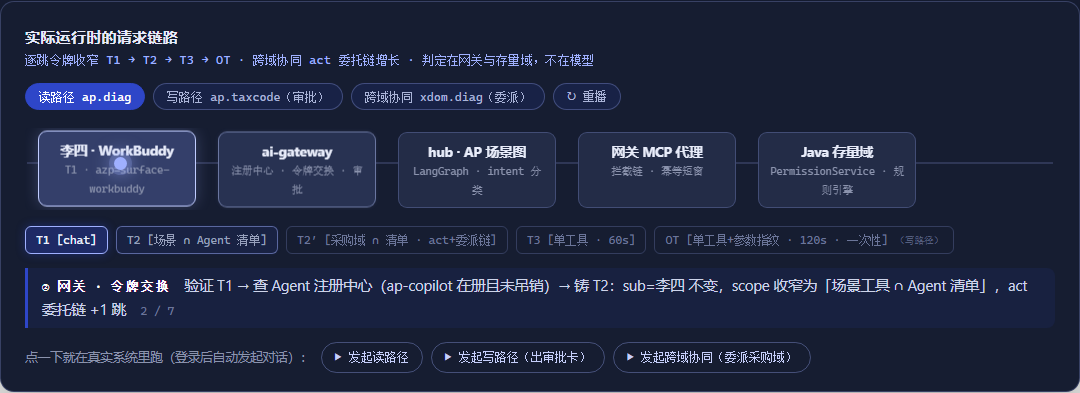
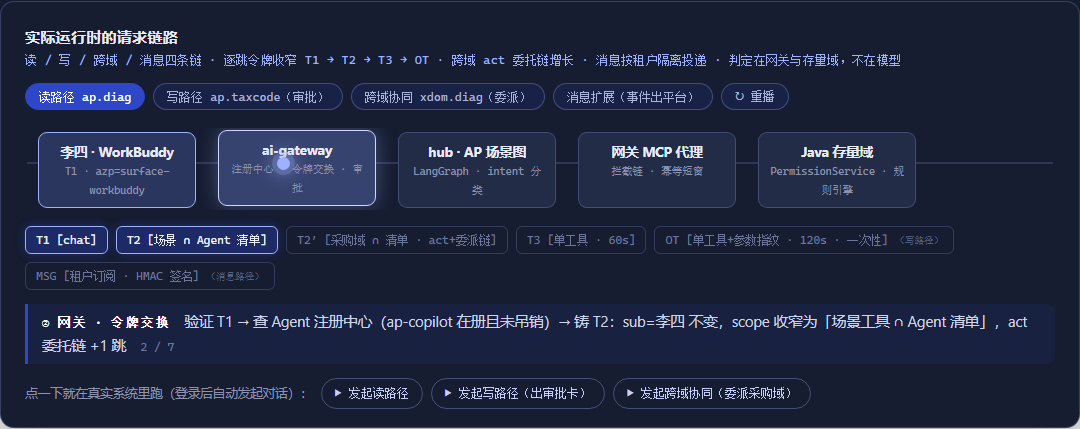
docs: 九幕文档 + intro 全面升级（14 条判断显性化 + 四模式链路动画）
- intro.html 新增「02 · 十四条架构判断」章节：14 行对照表（判断 × 机制落点
  × 验证入口 × 状态）+ 三个张力点（内生vs旁挂 / Ontology 方向性 / 替换终局
  对冲）+ 两条升格（可验证性一等公民 / 口径互证）——14 个问题在页面上显性化
- 顶部链路动画升级为四模式：读 / 写（审批）/ 跨域协同（委派）/ 消息扩展
  （事件出平台），新增租户系统·webhook 节点（msg 模式专属）与 MSG 令牌
  徽章，6 步消息脚本（outbox → 形态④消费 → 网关扇出 → 租户隔离匹配 →
  HMAC 投递 → 留痕与生命周期）
- 修复动画定时器泄漏（原代码 bug）：schedule() 的循环重启定时器此前在
  每个步进 tick 无条件重挂且不清旧的，多个泄漏定时器把 idx 反复归零，
  表现为动画莫名跳回第①步；现改为仅最后一步挂且挂前必清，start() 切
  模式时双定时器全清
- 架构图网关节点补消息分发；新增 Message 扩展卡片；页头徽章（五种形态
  / 14 条判断对照）；九幕表 + scene_9 行；章节重编号（02 判断 / 03 架构
  / 04 九幕 / 05 使用 / 06 目录）
- demo-script 第九幕讲解词与断言要点（38 分钟节奏）；README/architecture-
  mapping（ch04 补消息订阅）/architecture-alignment（观点 14 → ✅，
  13/14 已验证，P2 补齐记录）；验证报告刷新（全部体系绿）

diff --git a/docs/architecture-alignment.md b/docs/architecture-alignment.md
@@ -41,7 +41,7 @@
 | 11 | 人：执行者→确认者→例外处理者→监督者 | ✅ 一致且产品化 | 确认者=审批台（三要素+快照+params_hash）、例外处理者=挂起/唤醒、监督者=解析查看器+审计五要素+四问自检+成本对账 |
 | 12 | Agent 先协同、终局替换部分传统执行 | ✅ 当前阶段一致 | 现处「协同」阶段；管控面的执行端无关性是为终局预留的对冲（见张力 C） |
 | 13 | 标品 core + Metadata/Ontology/配置适配 | ✅ 一致（**P0 已补齐行业维度**） | 租户叠加（阈值/术语/指标口径/护栏）+ 行业包（Partner 层：制造业术语/护栏/行业默认参数，按行业声明匹配不串扰）；配置仍为文件级（无配置界面） |
-| 14 | SaaS 标品层/租户层隔离，API/Message 扩展 | 🟡 API✓ Message✗ | 跨租隔离 5/5、成本双租对账、三层解析隔离 ✓；Message 扩展通道未体现 |
+| 14 | SaaS 标品层/租户层隔离，API/Message 扩展 | ✅ 一致（**P2 已补齐 Message 半边**） | 跨租隔离 5/5、成本双租对账、三层解析隔离；BO API 扩展（规格即工具）+ 消息订阅（topic×webhook×HMAC 按租户隔离投递，吊销即停，scene_9） |
 
 ## 二、三个张力点（需要理念层面表态的地方）
 
@@ -89,18 +89,18 @@
 1. ~~Partner（行业）层~~ —— 解析顺序槽位已填充并演示；
 2. ~~Scheduler 触发~~ —— 形态⑤落地；
 3. ~~多领域 Agent + 协同~~ —— 采购域切片 + 跨域委派（AP 委派采购域）落地，
-   含协作清单治理与 act 委托链贯穿（scene_8）。
+   含协作清单治理与 act 委托链贯穿（scene_8）；
+4. ~~Message 扩展通道~~ —— 租户消息订阅（topic×webhook×HMAC）按租户隔离
+   投递出平台，吊销即停（scene_9）。
 
 **余项**：
-1. **Message 扩展通道**（观点 14 后半）：outbox 是内部事件；租户级「通过 Message 扩展」
-   （订阅 webhook / 消息总线挂自定义处理器）没有。
-2. **多异构系统对接**（文章选型第四条）：MCP 代理只指向一套 Java。哪怕再挂一个只读 OA/CRM
+1. **多异构系统对接**（文章选型第四条）：MCP 代理只指向一套 Java。哪怕再挂一个只读 OA/CRM
    工具，即可演示「底座不绑定单一 ERP」。
-3. **元数据→本体自动喂养**（观点 5 的自动化方向）：投影段是手工映射；无 schema introspection
+2. **元数据→本体自动喂养**（观点 5 的自动化方向）：投影段是手工映射；无 schema introspection
    自动生成。现状 = 人工对齐 + 机器校验，不是自动生成。
-4. **产品化配置界面**（观点 13）：租户/行业配置是 YAML 文件级操作，无管理端 UI。
-5. **Ontology 驱动结构**（观点 4 阶段二）：增量段不生成任何结构。
-6. **更多领域与协同深度**（观点 6 的延伸）：当前为 AP × 采购两域一场景；多域编排
+3. **产品化配置界面**（观点 13）：租户/行业配置是 YAML 文件级操作，无管理端 UI。
+4. **Ontology 驱动结构**（观点 4 阶段二）：增量段不生成任何结构。
+5. **更多领域与协同深度**（观点 6 的延伸）：当前为 AP × 采购两域一场景；多域编排
    （三方以上、并行委派、agent 间协商）未涉及——当前阶段以「定义好的流程为主」
    （观点 8），协同走显式委派链而非自由协商，是刻意约束。
 
@@ -162,10 +162,28 @@ trace `sched-*` 且以 ap-batch 代理身份（T2）留痕。
 act 嵌套链与最小权限 scope；负向三连（清单外/反向/跨租）全部 403；审计行携带
 delegation_chain；采购域独立可用；跨域场景护栏前置。
 
+### Message 扩展通道（观点 14 的后半句，P2）
+
+**场景（业务驱动）**：华东制造想让自己租户侧的合规监控实时响应「发票被阻断」——
+SaaS 平台不开放核心改造，租户通过**消息订阅**扩展自己的系统。与形态④
+（事件触发平台内 Agent）互补且同源：同一 outbox 事件，「事件进 Agent」与
+「事件出平台」不是两套事件。
+
+| 位置 | 内容 |
+|---|---|
+| `erp-ai-action/app/subscriptions/` | 订阅注册/清册/吊销（`POST/GET /gw/subscriptions`，admin/内部密钥）+ 事件扇出（`POST /internal/events/dispatch`，hub 调用）：按（租户 × topic）匹配活跃订阅，逐个投递并审计（event.dispatch） |
+| 投递安全 | 每次投递携带 `X-ERP-Signature: sha256=HMAC(密钥, 载荷)` + `X-ERP-Delivery-Id`——租户侧验签防伪造 |
+| `legacy-erp-ap/.../OutboxService.republish` | 事件重投（消息平台标准补投能力）：注入 redelivered 标记走首发同链路，保证场景可重跑 |
+| `erp-ai-hub/hub/events.py` `gw.py` | 事件线程处理完（形态④归因 + 通知）后调网关分发——双路消费同源 |
+
+**验证**：scene_9（本机起两个 webhook 接收器扮演双租）—— T-EAST 收到投递且载荷/
+签名正确、投递审计留痕、T-UNI 订阅收不到 T-EAST 事件（隔离）、EVENT_DIAG 通知与
+webhook 同事件双路、吊销即停投。
+
 ## 六、一句话总结
 
-> 14 条判断与本仓的关系：**11 条已实现且已验证（1/2/3/6/7/8/9/10/11/12/13），
-> 1 条实现一半（14 的 API 半边，Message 未落地），1 条是方向性愿景需分阶段表述（4）**。
-> 冲突不在代码里，在表述里：把「底座式内生」说清（A）、把「本体核心」分阶段（B）、
-> 把「替换的对冲」显式化（C）——这 14 条即构成一个自洽、且大部分已被本仓
-> 证实而非证伪的架构纲领。
+> 14 条判断与本仓的关系：**13 条已实现且已验证（除 4 外全部，含 API 与 Message
+> 双扩展通道、多领域委派协同），1 条是方向性愿景需分阶段表述（4：本体先做统一
+> 语义与校验核心，结构生成是阶段二）**。冲突不在代码里，在表述里：把「底座式内生」
+> 说清（A）、把「本体核心」分阶段（B）、把「替换的对冲」显式化（C）——这 14 条即构成
+> 一个自洽、且大部分已被本仓证实而非证伪的架构纲领。

diff --git a/docs/architecture-mapping.md b/docs/architecture-mapping.md
@@ -10,7 +10,7 @@
 | 01 | 业界现在在做什么 | （背景章，无代码）演示复现其指出的两类事故：数据权限口径差、「页面能看的 AI 也能看」的对齐 | `python scripts/demo/scene_1.py` |
 | 02 | ERP AI 技术架构 L0：七层结构与两条贯穿线 | L0 接入域 `legacy-erp-ap/.../web/`（ERP 页内嵌 copilot）+ `workbuddy/`（助手平台）+ `scripts/headless_mcp.py`（无头）+ `erp-ai-hub/hub/events.py`（事件触发）+ `erp-ai-hub/hub/scheduler.py`（定时触发）+ `erp-ai-hub/hub/graphs/xdom.py`（跨域协同：AP 委派采购域）；L1 网关 `erp-ai-action/`；L2 Hub `erp-ai-hub/`；L3 语义 `erp-ai-context/`；L4 存量 `legacy-erp-ap/`；模型网关 `erp-ai-action/app/modelgw/`。两条贯穿线：身份（T1→T2→T3，见 [token-design.md](token-design.md)）与评测（`eval/`） | `python scripts/selfcheck.py`（四问）；`python scripts/demo/scene_8.py` |
 | 03 | appid 策略与部署架构 | appid 清单：`erp-ap`（存量，Java）、`erp-ai-action`（网关）、`erp-ai-hub`（业务 Hub）、`erp-ai-context`（语义）；服务边界即 `compose/docker-compose.yml` 的服务列表 | `docker-compose ps`；网关 `/healthz` |
-| 04 | 租户体系下的 harness | 标品资产层 `harness-assets/standard/{skills,rules,guardrails,prompts,evalsets}` + 行业包层 `partner/`（制造业示例：行业护栏按租户行业声明 `tenant.yaml` 匹配加载）+ 租户层 `tenant-east/`、`tenant-uni/`；三层解析器 `erp-ai-hub/hub/assets/resolver.py`（Standard→Partner→Tenant，仅 `overridable` 可覆盖，护栏只加严）；租户语义叠加 `erp-ai-context/overlays/`（含行业语义包 `partner-*.yaml`） | `python scripts/tenant_checks.py`（六项）；`python scripts/demo/scene_7.py`；WorkBuddy「解析查看器」页 |
+| 04 | 租户体系下的 harness | 标品资产层 `harness-assets/standard/{skills,rules,guardrails,prompts,evalsets}` + 行业包层 `partner/`（制造业示例：行业护栏按租户行业声明 `tenant.yaml` 匹配加载）+ 租户层 `tenant-east/`、`tenant-uni/`；三层解析器 `erp-ai-hub/hub/assets/resolver.py`（Standard→Partner→Tenant，仅 `overridable` 可覆盖，护栏只加严）；租户语义叠加 `erp-ai-context/overlays/`（含行业语义包 `partner-*.yaml`）；租户消息订阅（Message 扩展通道：topic×webhook×HMAC 按租户隔离投递）`erp-ai-action/app/subscriptions/` | `python scripts/tenant_checks.py`（六项）；`python scripts/demo/scene_7.py` `scene_9.py`；WorkBuddy「解析查看器」页 |
 | 05 | AI 应用的鉴权与授权 | Agent 注册中心 `erp-ai-action/app/registry/`（清册/吊销/SoD 互斥/协作清单 delegates_to）；逐跳令牌 `app/auth/`（T1/IN/T2/T3/OT + OAuth 授权码）；拦截链 `app/auth/routes.py` 的 `/gw/auth/exchange`（七道：注册/吊销/租户/场景/scope/SoD/**委派授权**——Agent 间委派须在协作清单内，act 链增长）；审批 `app/approval/`；Java 侧判定 `legacy-erp-ap/.../security/` | `python scripts/demo/scene_3.py` `scene_4.py` `scene_6.py` `scene_8.py`；[token-design.md](token-design.md) |
 | 06 | BO API：共识、规格、证据与落地 | ★ 全项目唯一规格真源 `boapi-spec/bo-ap.yaml`（OpenAPI 3.1 + `x-bo-extensions`：操作性质/不可逆/幂等键/错误分类/completeness/正反例）；BO 实现 `legacy-erp-ap/.../boapi/`；MCP 工具定义由规格生成 `.../mcp/`；适配层补齐 completeness（权限不足时披露而非静默） | `python scripts/demo/scene_2.py`；`PermissionParityTest`（Java 测试） |
 | 07 | 知识库怎么建 | 语义文件三段式（投影/增量/原生）`erp-ai-context/domains/ap_invoice.yaml`；七个语义查询工具 `erp-ai-context/service/tools.py`（语义层不生成 SQL，指标计算出口是 BO API `ap.balance.query`）；能力问题清单 `questions-capability.yaml`（30 条）；漂移检测 `drift/drift_check.py`（预埋 2 处漂移可检出） | `python erp-ai-context/drift/drift_check.py`；`python scripts/demo/scene_5.py` |
@@ -19,7 +19,7 @@
 | 10 | 框架、Harness 与开发语言的选型 | LangGraph 收敛在薄封装 `erp-ai-hub/hub/sdk/graph.py`（唯一允许 import langgraph 的层）；interrupt 审批断点 `hub/graphs/taxcode.py` + PostgresSaver；Spring AI MCP Server 在 Java 侧；网关/Hub 用 FastAPI；前端 React+Vite | `python scripts/demo/scene_6.py`（挂起→唤醒） |
 | 11 | 可审计的 AI：ERP 产品要交付什么 | 审计五要素入库 `erp-ai-action/app/audit/`（时间/租户/用户/Agent/动作+结果+错误码+审批单号）；Agent 清册 `/gw/agents`；审批留痕（approver+snapshot）`app/approval/`；证据包导出 `/gw/evidence/export`（委托链+审批快照+审计摘录+版本四件套）；五分钟自检 `scripts/selfcheck.py` | scene_6；`python scripts/selfcheck.py`；报告 `docs/selfcheck-latest.md` |
 | 12 | AI Agent 体系的可观测 | OTel GenAI 风格 span 树 `erp-ai-action/app/otel_setup.py`（invoke_agent→chat→execute_tool，六组扩展字段：身份/版本/场景/完整性/动作性质/内容摘要）；成本台账 `app/cost/`（tenant/agent/scene/user 四维 token 计量，与审计对账）；Jaeger compose 内置 | http://localhost:16687（Jaeger）；自检 Q4 成本对账 |
-| 13 | 工程之外还有五个问题 | （组织/合规/数据治理等，非代码章）演示叙事落位：七幕剧本每幕的「讲解词」 | [demo-script.md](demo-script.md) |
+| 13 | 工程之外还有五个问题 | （组织/合规/数据治理等，非代码章）演示叙事落位：九幕剧本每幕的「讲解词」 | [demo-script.md](demo-script.md) |
 | 14 | 总路线图与子产品 Playbook | WAVE 0→1→2 实施顺序即本仓 Phase 0-3：身份留痕先于场景（Phase 0）、评测先于知识、读侧先于写侧（Phase 1→2） | 本仓 git 历史（tag v0.x）+ `docs/verification-report.md` |
 
 ## 关键「规格即真源」派生关系

diff --git a/docs/demo-script.md b/docs/demo-script.md
@@ -1,6 +1,6 @@
-# 八幕演示剧本
+# 九幕演示剧本
 
-> 每一幕都有**脚本化断言**（`scripts/demo/scene_1.py` … `scene_8.py`，退出码 0=全过 / 1=失败 / 2=服务不可达），
+> 每一幕都有**脚本化断言**（`scripts/demo/scene_1.py` … `scene_9.py`，退出码 0=全过 / 1=失败 / 2=服务不可达），
 > 也有**浏览器人工路径**（URL 见各幕）。讲解词对应总纲第 13 章「工程之外还有五个问题」的叙事落点。
 > 前置：compose 已启动（见 [README](../README.md)），模型模式默认 mock/replay，无需真实模型 key。
 
@@ -16,8 +16,9 @@
 | 6 | 审批留痕 + 证据包 + 五分钟自检 | `python scripts/demo/scene_6.py` | ch11 可审计 AI |
 | 7 | 行业包与定时触发：Partner 层 + Scheduler | `python scripts/demo/scene_7.py` | ch02/ch04 接入形态与租户 harness |
 | 8 | 多领域 Agent 协同：AP 委派采购域跨域归因 | `python scripts/demo/scene_8.py` | ch02/ch05 架构与鉴权授权 |
+| 9 | Message 扩展：租户消息订阅与隔离投递 | `python scripts/demo/scene_9.py` | ch04/ch14 租户隔离与扩展 |
 
-顺序跑：`for i in 1 2 3 4 5 6 7 8; do python scripts/demo/scene_$i.py || break; done`
+顺序跑：`for i in 1 2 3 4 5 6 7 8 9; do python scripts/demo/scene_$i.py || break; done`
 
 ---
 
@@ -179,6 +180,30 @@ proc-copilot（采购域代理）取证订单与收货：PO-A-0001 订单 100、
 
 ---
 
+## 第 9 幕：Message 扩展 —— 租户消息订阅与隔离投递
+
+**讲解词**：SaaS 的扩展边界有两个半边：API（BO 工具，前八幕的主角）与 Message（本幕）。
+华东制造想让自己租户侧的合规监控实时响应「发票被阻断」——平台不开放核心改造，租户通过
+**消息订阅**扩展：注册（topic × webhook × 签名密钥，`POST /gw/subscriptions`），平台把领域
+事件按（租户 × topic）**隔离投递**出平台。链路与形态④互补且同源：同一 outbox 事件，
+hub 事件线程消费后既做平台内归因（event-diag → 通知），又扇出到网关消息分发——
+「事件进 Agent」与「事件出平台」不是两套事件。投递带 HMAC-SHA256 签名（租户侧验签防伪造）、
+每次投递审计留痕（event.dispatch）、吊销订阅对后续投递即时生效。触发方式用**事件重投**
+（`POST /internal/events/republish`，消息平台的标准补投能力）保证场景可重跑。
+
+**断言要点**（scene_9.py，本机起两个 webhook 接收器分别扮演 T-EAST / T-UNI 租户系统）：
+- T-EAST webhook 收到投递：载荷正确（invoiceNo / tenantId / eventType / redelivered / deliveryId）；
+- HMAC-SHA256 签名验证通过（接收端用注册密钥验 X-ERP-Signature）；
+- 投递审计留痕（event.dispatch · SUCCESS，含订阅号与投递号）；
+- **租户隔离**：T-UNI 的订阅收不到 T-EAST 的事件（消息通道的标品/租户隔离）；
+- 同事件双路消费：EVENT_DIAG 通知（形态④）与 webhook 投递同时发生；
+- 吊销订阅后重投事件，不再投递（生命周期即边界）。
+
+**浏览器路径**：无浏览器面（管理侧 API + 本机 webhook 接收器）；可视化见
+`docs/intro.html` 顶部动画「消息扩展（事件出平台）」模式。
+
+---
+
 ## 附录：三种 Agent 形态的现场入口
 
 - **形态③ 无头 MCP**：`python scripts/headless_mcp.py list` / `call ap.invoice.checkValidation --args '{"invoiceNo":"INV-A-001"}'`
@@ -188,11 +213,12 @@ proc-copilot（采购域代理）取证订单与收货：PO-A-0001 订单 100、
 - **形态⑤ 定时触发**：hub `scheduler.py` 周期代表 ap-batch 全量阻断筛查（钉 mock 确定性
   通道），结果有变化才推送（WorkBuddy Notifications 可见 SCHEDULED_BATCH 类）。
 
-## 讲解节奏建议（约 32 分钟）
+## 讲解节奏建议（约 38 分钟）
 
 1. 幕 1-2 读侧（10 分钟）：先讲事故，再讲机制对齐，最后 completeness；
 2. 幕 3-4 治理（6 分钟）：强调「判定层不在模型」与「吊销即时性」；
 3. 幕 5 租户（4 分钟）：同题不同答 + WorkBuddy 切换租户演示（qianqi 登录）；
 4. 幕 6 写路径（5 分钟）：浏览器走 WorkBuddy 旅程，脚本只做兜底断言；
 5. 幕 7 行业包与定时（3 分钟）：解析查看器指认 partner 层，通知中心看定时筛查；
-6. 幕 8 跨域协同（4 分钟）：先展示 AP 域答不出的部分，再看委派后的综合结论与审计链。
+6. 幕 8 跨域协同（4 分钟）：先展示 AP 域答不出的部分，再看委派后的综合结论与审计链；
+7. 幕 9 消息扩展（3 分钟）：动画「消息扩展」模式讲解，现场跑 scene_9 看隔离投递。

diff --git a/docs/selfcheck-latest.md b/docs/selfcheck-latest.md
@@ -1,6 +1,6 @@
 # 五分钟自检报告
 
-- 生成时间：2026-09-18 17:10:33
+- 生成时间：2026-09-18 19:52:54
 - 服务健康：全部可达
 - 版本戳：spec `1.1.0` / ruleset `AP-RS-1.2.0` / seed `ap-seed-1.0.0` / 语义 `ap-sem-1.0.0` / 模型 `glm-5.3`（live）
 
@@ -22,28 +22,28 @@
 
 | 时间 | 租户 | 用户 | Agent | 动作 | 结果 | 错误码 | 审批 |
 |---|---|---|---|---|---|---|---|
-| 2026-09-19T00:10:32 | - | - | - | agent.roster.view | SUCCESS | - | - |
-| 2026-09-19T00:10:21 | T-UNI | qianqi | agent:uni-copilot | ap.invoice.checkValidation | SUCCESS | - | - |
-| 2026-09-19T00:10:21 | T-UNI | qianqi | - | model_call | SUCCESS | - | - |
-| 2026-09-19T00:10:21 | T-EAST | lisi | agent:ap-copilot | ap.invoice.checkValidation | SUCCESS | - | - |
-| 2026-09-19T00:10:21 | T-EAST | lisi | - | model_call | SUCCESS | - | - |
-| 2026-09-19T00:10:19 | T-UNI | zhaoliu | agent:uni-copilot | ap.invoice.checkValidation | ERROR | AP.INVOICE_NOT_FOUND | - |
-| 2026-09-19T00:10:19 | T-UNI | zhaoliu | - | model_call | SUCCESS | - | - |
-| 2026-09-19T00:10:19 | T-EAST | zhangsan | agent:ap-copilot | ap.invoice.checkValidation | ERROR | AP.INVOICE_NOT_FOUND | - |
-| 2026-09-19T00:10:18 | T-EAST | zhangsan | - | model_call | SUCCESS | - | - |
-| 2026-09-19T00:10:17 | T-UNI | qianqi | agent:uni-copilot | ap.invoice.checkValidation | SUCCESS | - | - |
-| 2026-09-19T00:10:17 | T-UNI | qianqi | - | model_call | SUCCESS | - | - |
-| 2026-09-19T00:10:16 | T-EAST | lisi | agent:ap-copilot | ap.invoice.getMatchDetail | SUCCESS | - | - |
-| 2026-09-19T00:10:16 | T-EAST | lisi | agent:ap-copilot | ap.invoice.checkValidation | SUCCESS | - | - |
-| 2026-09-19T00:10:16 | T-EAST | lisi | - | model_call | SUCCESS | - | - |
-| 2026-09-19T00:10:15 | T-UNI | qianqi | agent:uni-batch | semantic.metric.get | SUCCESS | - | - |
+| 2026-09-19T02:52:53 | - | - | - | agent.roster.view | SUCCESS | - | - |
+| 2026-09-19T02:52:48 | T-UNI | qianqi | agent:uni-copilot | ap.invoice.checkValidation | SUCCESS | - | - |
+| 2026-09-19T02:52:48 | T-UNI | qianqi | - | model_call | SUCCESS | - | - |
+| 2026-09-19T02:52:47 | T-EAST | lisi | agent:ap-copilot | ap.invoice.checkValidation | SUCCESS | - | - |
+| 2026-09-19T02:52:47 | T-EAST | lisi | - | model_call | SUCCESS | - | - |
+| 2026-09-19T02:52:45 | T-UNI | zhaoliu | agent:uni-copilot | ap.invoice.checkValidation | ERROR | AP.INVOICE_NOT_FOUND | - |
+| 2026-09-19T02:52:45 | T-UNI | zhaoliu | - | model_call | SUCCESS | - | - |
+| 2026-09-19T02:52:44 | T-EAST | zhangsan | agent:ap-copilot | ap.invoice.checkValidation | ERROR | AP.INVOICE_NOT_FOUND | - |
+| 2026-09-19T02:52:44 | T-EAST | zhangsan | - | model_call | SUCCESS | - | - |
+| 2026-09-19T02:52:43 | T-UNI | qianqi | agent:uni-copilot | ap.invoice.checkValidation | SUCCESS | - | - |
+| 2026-09-19T02:52:43 | T-UNI | qianqi | - | model_call | SUCCESS | - | - |
+| 2026-09-19T02:52:42 | T-EAST | lisi | agent:ap-copilot | ap.invoice.getMatchDetail | SUCCESS | - | - |
+| 2026-09-19T02:52:42 | T-EAST | lisi | agent:ap-copilot | ap.invoice.checkValidation | SUCCESS | - | - |
+| 2026-09-19T02:52:42 | T-EAST | lisi | - | model_call | SUCCESS | - | - |
+| 2026-09-19T02:52:41 | T-UNI | qianqi | agent:uni-batch | semantic.metric.get | SUCCESS | - | - |
 
 ## Q3 有没有异常？（拦截与拒绝分布）
 
-- 近 500 条审计中拒绝/错误 9 条：
-  - `AP.INVOICE_NOT_FOUND` × 6
-  - `AP.PERMISSION_DENIED` × 2
-  - `AP.INVOICE_IN_DRAFT` × 1
+- 近 500 条审计中拒绝/错误 18 条：
+  - `AP.INVOICE_NOT_FOUND` × 12
+  - `AP.PERMISSION_DENIED` × 4
+  - `AP.INVOICE_IN_DRAFT` × 2
 - 其中护栏拦截（诱导/越权话术）0 条 —— 拦截即机制生效，非事故。
 - 评测锚点：full 档 50/50 通过（全绿）
 
@@ -51,8 +51,8 @@
 
 | 租户 | 调用数 | token 合计 | 审计对账 |
 |---|---|---|---|
-| T-EAST | 769 | 90,225 | 一致 |
-| T-UNI | 179 | 17,890 | 一致 |
+| T-EAST | 845 | 102,269 | 一致 |
+| T-UNI | 192 | 19,995 | 一致 |
 
 ---
 结论：四问 全部可答。

diff --git a/docs/verification-report.md b/docs/verification-report.md
@@ -1,6 +1,6 @@
 # 验证报告（verification report）
 
-- 生成时间：2026-09-18 17:10:36
+- 生成时间：2026-09-18 19:52:56
 - 版本戳：spec `1.1.0` / ruleset `AP-RS-1.2.0` / seed `ap-seed-1.0.0` / 语义 `ap-sem-1.0.0` / 模型 `glm-5.3`（live）
 - 结论：**全部体系绿**
 
@@ -8,7 +8,7 @@
 
 | 检验体系 | 结果 | 判定 |
 |---|---|---|
-| 全量评测（50 锚点用例） | 50/50 通过，耗时 28.6s | ✅ |
+| 全量评测（50 锚点用例） | 50/50 通过，耗时 30.1s | ✅ |
 | 多租六项检验 | 37/37 通过 | ✅ |
 | 漂移检测 | 检出 2 处预埋漂移（全部检出） | ✅ |
 | 五分钟自检（四问） | 全部可答（docs/selfcheck-latest.md） | ✅ |
